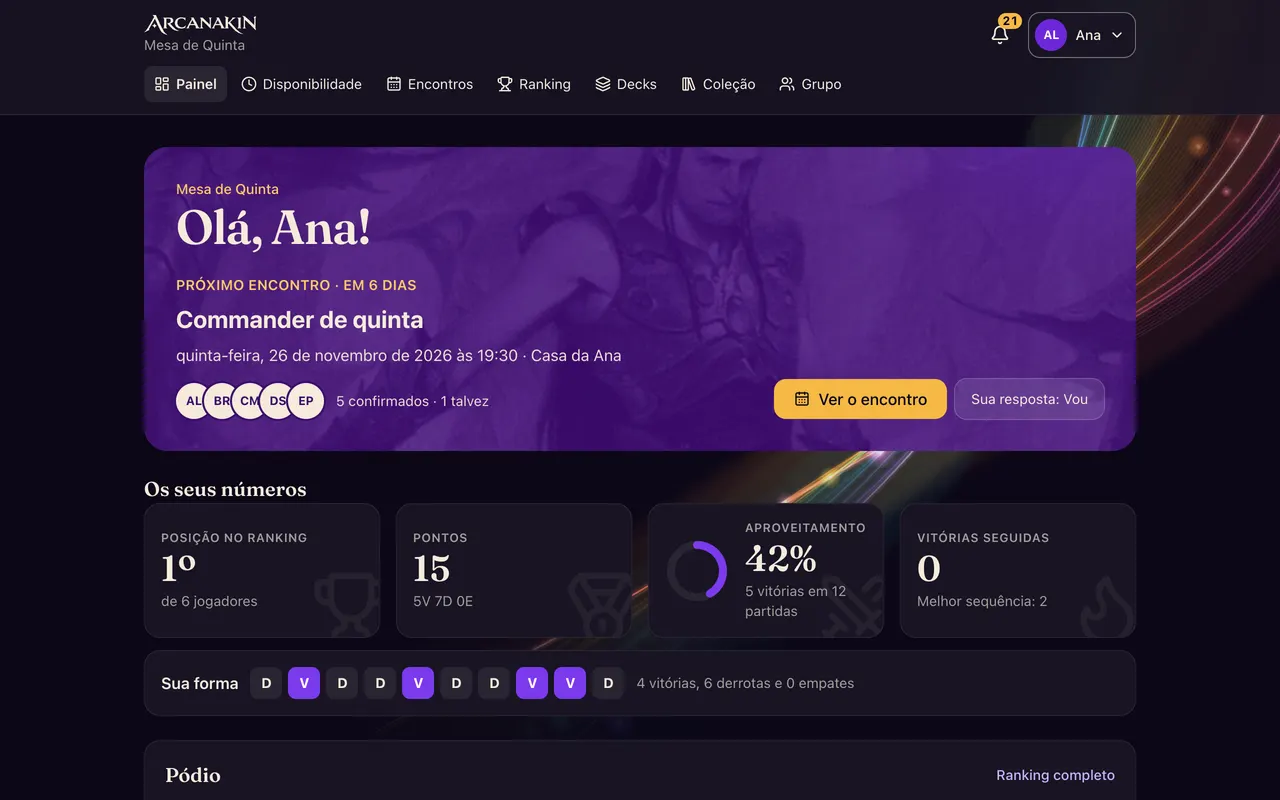
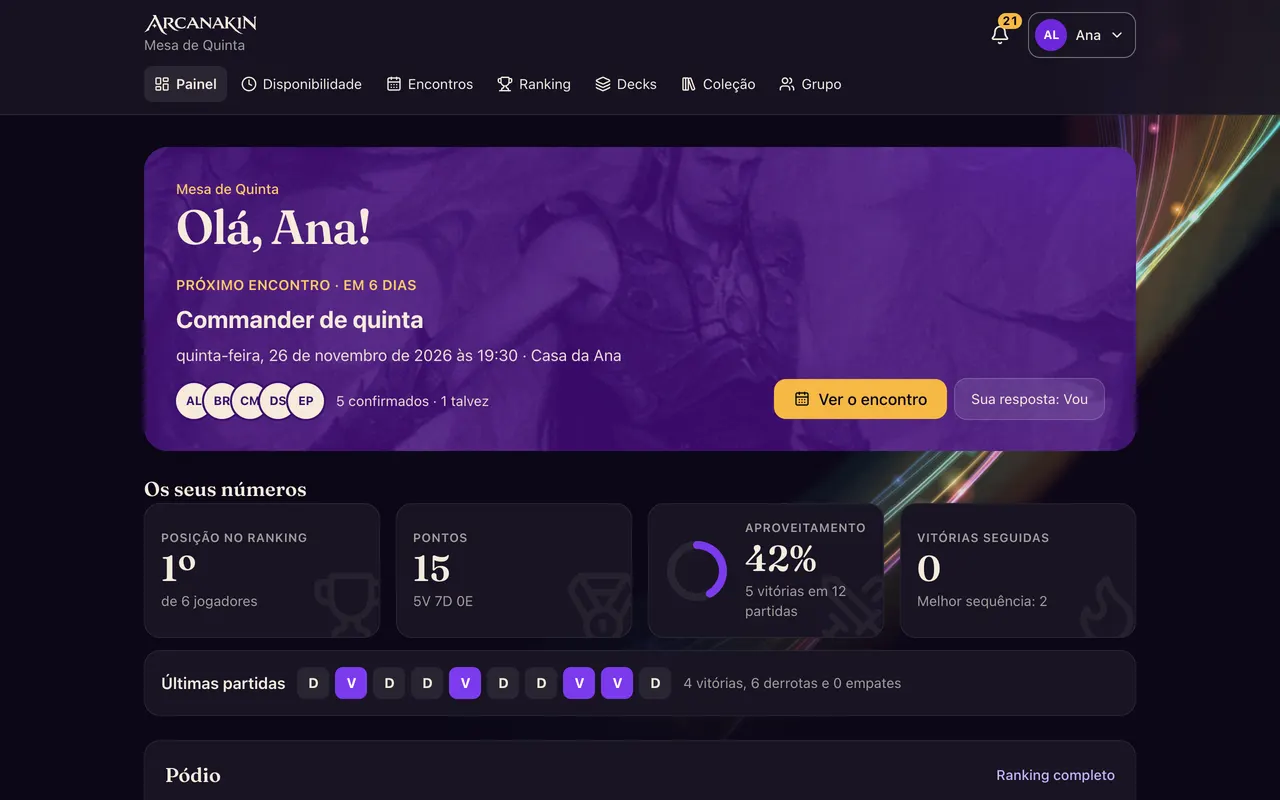
feat(painel): "Sua forma" vira "Últimas partidas" (site e app)
Claude-Session: https://claude.ai/code/session_013e8g1SvLhLLWPsuorffd35

diff --git a/apps/mobile/src/lib/i18n.ts b/apps/mobile/src/lib/i18n.ts
@@ -45,7 +45,7 @@ const pt = {
   dashWinsOf: '{wins} vitórias em {games} partidas',
   dashStreak: 'Vitórias seguidas',
   dashBestStreak: 'Melhor sequência: {count}',
-  dashForm: 'Sua forma',
+  dashForm: 'Últimas partidas',
   dashForm_win: 'Vitória',
   dashForm_loss: 'Derrota',
   dashForm_draw: 'Empate',
@@ -1096,7 +1096,7 @@ const en: Messages = {
   dashWinsOf: '{wins} wins in {games} games',
   dashStreak: 'Win streak',
   dashBestStreak: 'Best streak: {count}',
-  dashForm: 'Your form',
+  dashForm: 'Recent games',
   dashForm_win: 'Win',
   dashForm_loss: 'Loss',
   dashForm_draw: 'Draw',

diff --git a/apps/web/src/app/(app)/painel/page.tsx b/apps/web/src/app/(app)/painel/page.tsx
@@ -121,7 +121,7 @@ function Tile({
 
 /**
  * Painel: o próximo encontro em destaque, os seus números (posição, pontos, aproveitamento,
- * sequência e forma recente), o pódio, a atividade do grupo, os melhores horários e os
+ * sequência e últimas partidas), o pódio, a atividade do grupo, os melhores horários e os
  * comandantes em alta. Nomes de jogadores levam ao perfil; nomes de cartas abrem a carta.
  */
 export default async function DashboardPage() {

diff --git a/docs/ACCESSIBILITY.md b/docs/ACCESSIBILITY.md
@@ -177,7 +177,7 @@ sem rolagem horizontal em 320px.
 
 ### Revisão: painel, nomes clicáveis e foil
 
-- Painel: números em texto (o anel de aproveitamento, as barras de atividade e o pódio são decorativos, com tabela ou texto equivalente); a forma recente usa letras (V/D/E) além da cor e tem o texto por extenso para leitores de tela; avatares decorativos com os nomes em `sr-only`.
+- Painel: números em texto (o anel de aproveitamento, as barras de atividade e o pódio são decorativos, com tabela ou texto equivalente); as "Últimas partidas" usam letras (V/D/E) além da cor e tem o texto por extenso para leitores de tela; avatares decorativos com os nomes em `sr-only`.
 - Nomes de jogador são links com sublinhado (não só cor); nomes de carta são botões (`aria-haspopup="dialog"`) com sublinhado pontilhado, cujo nome acessível é o próprio nome da carta. O diálogo devolve o foco ao botão ao fechar.
 - Foil: caixa de seleção com rótulo visível e o nome da carta para leitores de tela; selo com "✦ Foil" em texto; o brilho é decorativo e para com "reduzir movimento".
 - Achado e corrigido: o diálogo da carta dentro de um parágrafo causava erro de hidratação (o React refazia a página e perdia o tema escuro escolhido). Agora ele é criado no primeiro clique, fora do texto.
